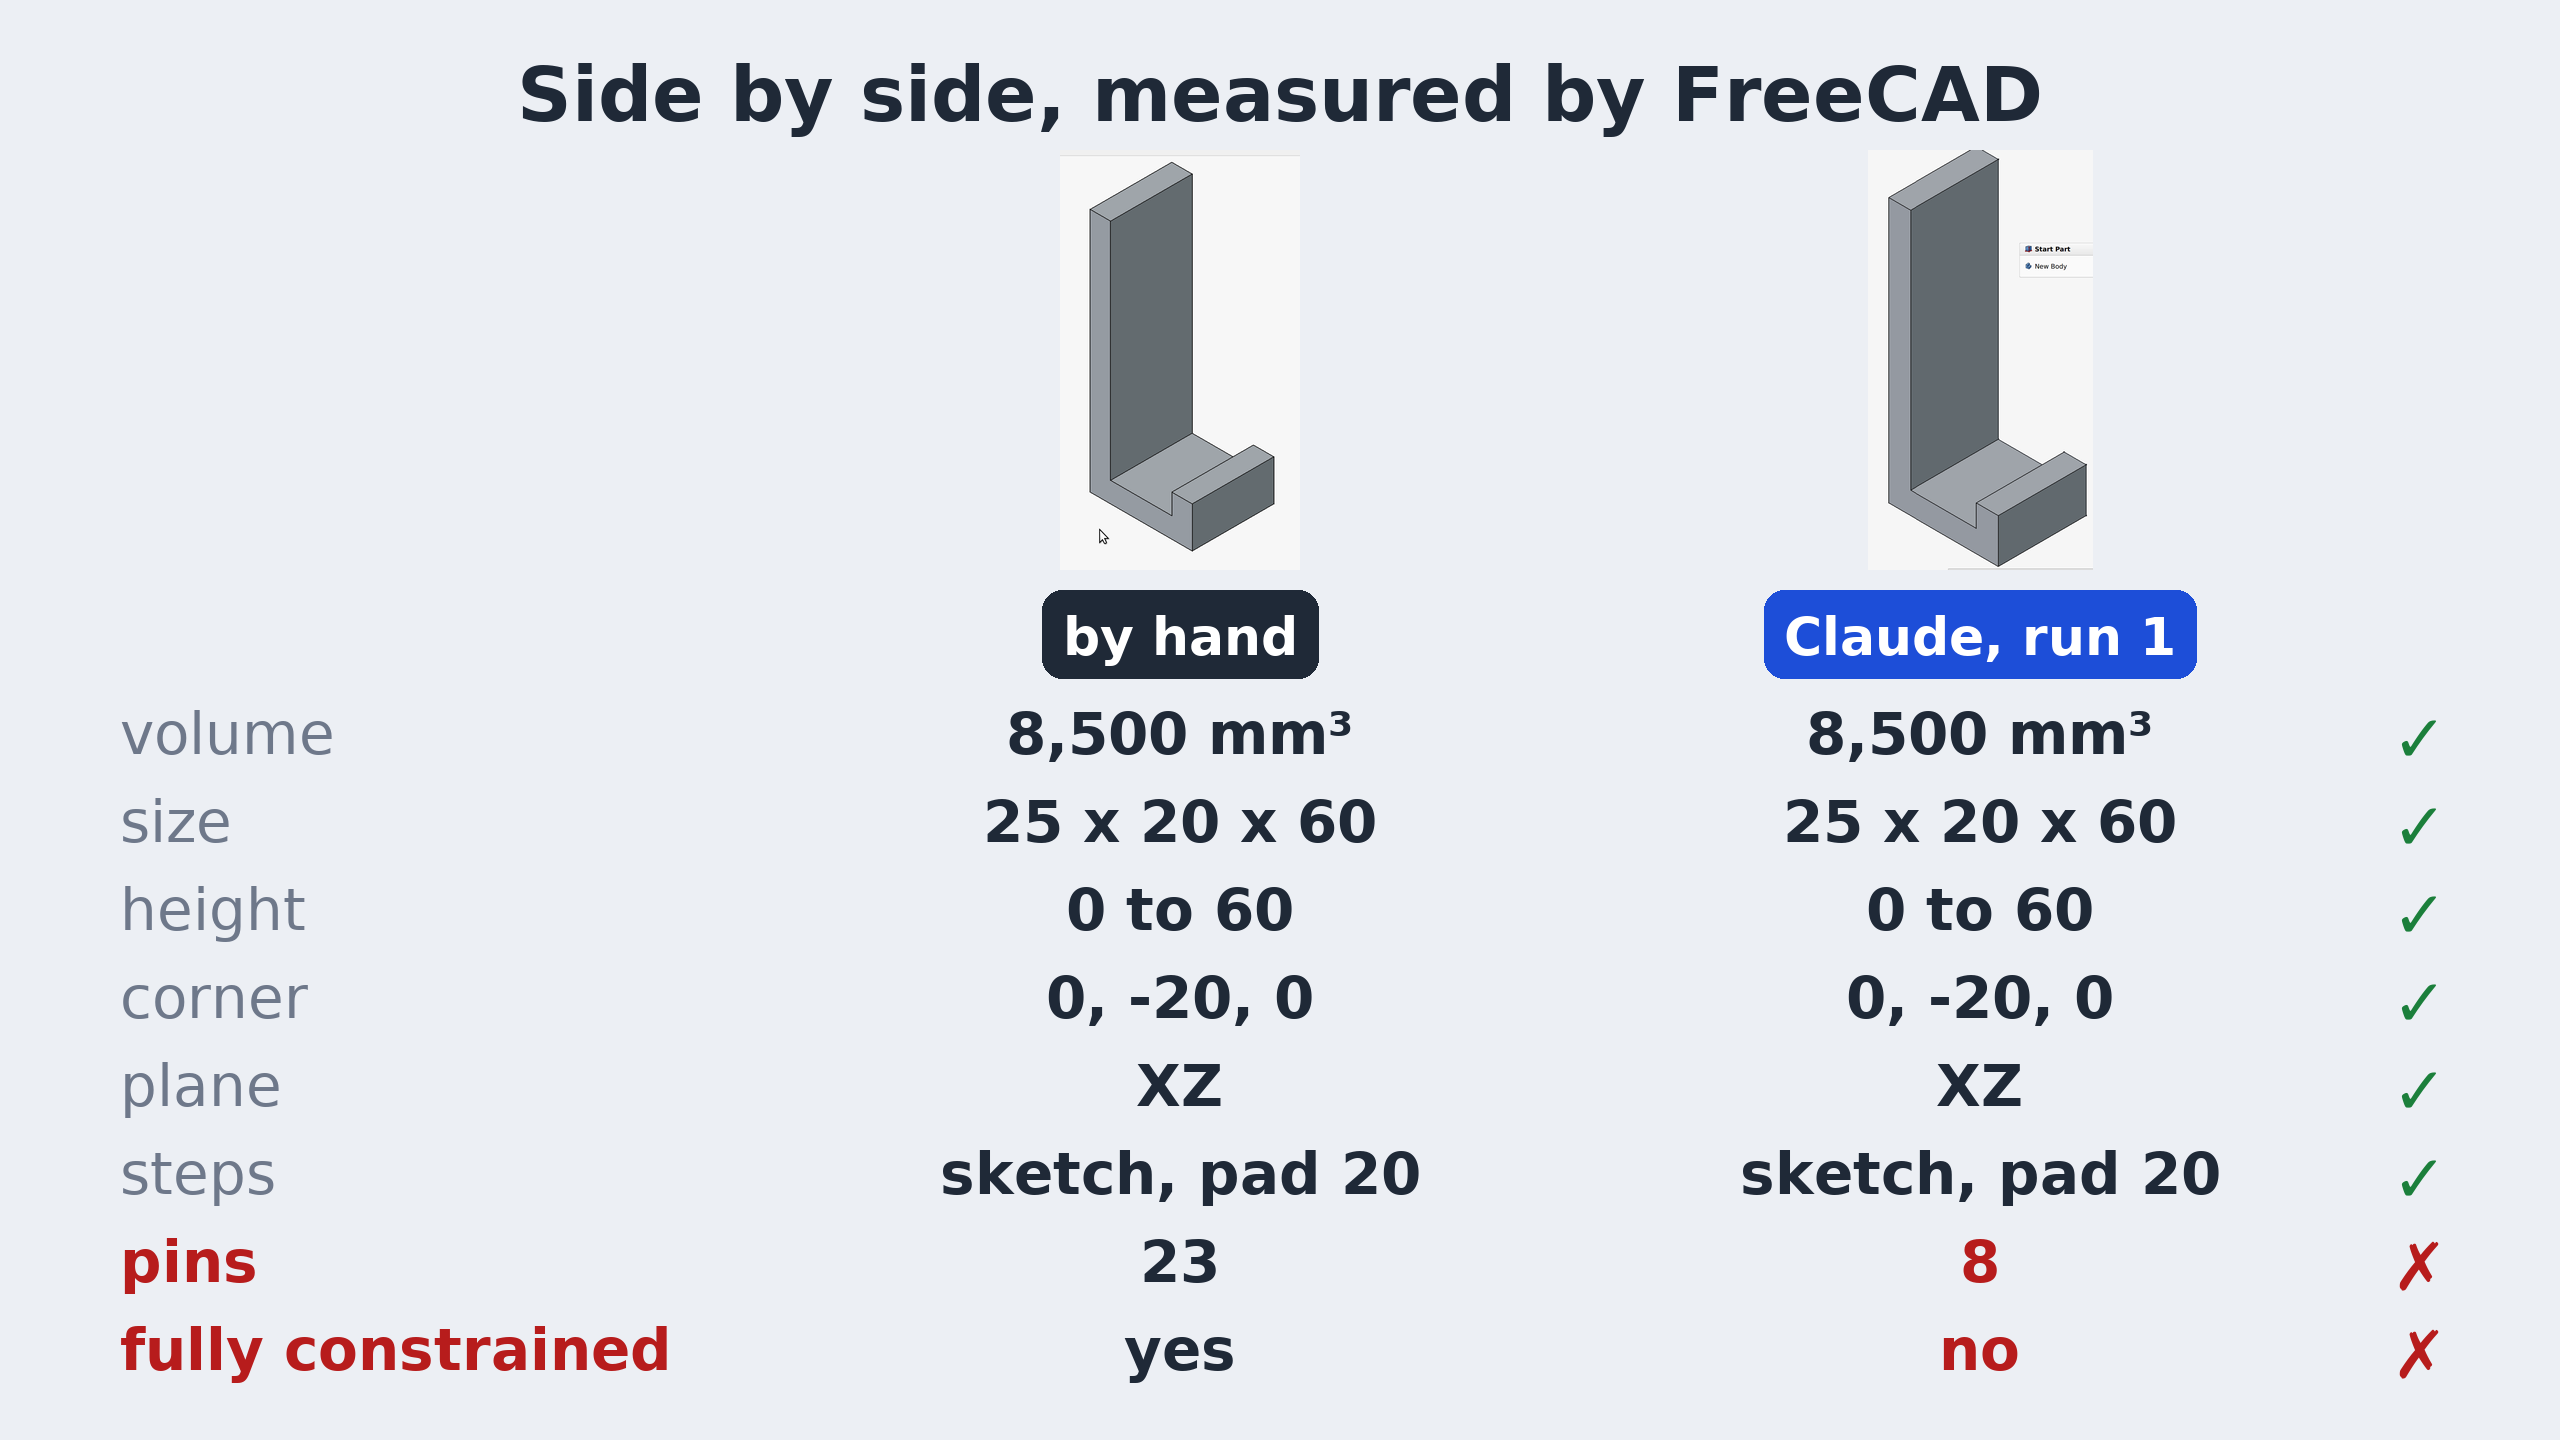
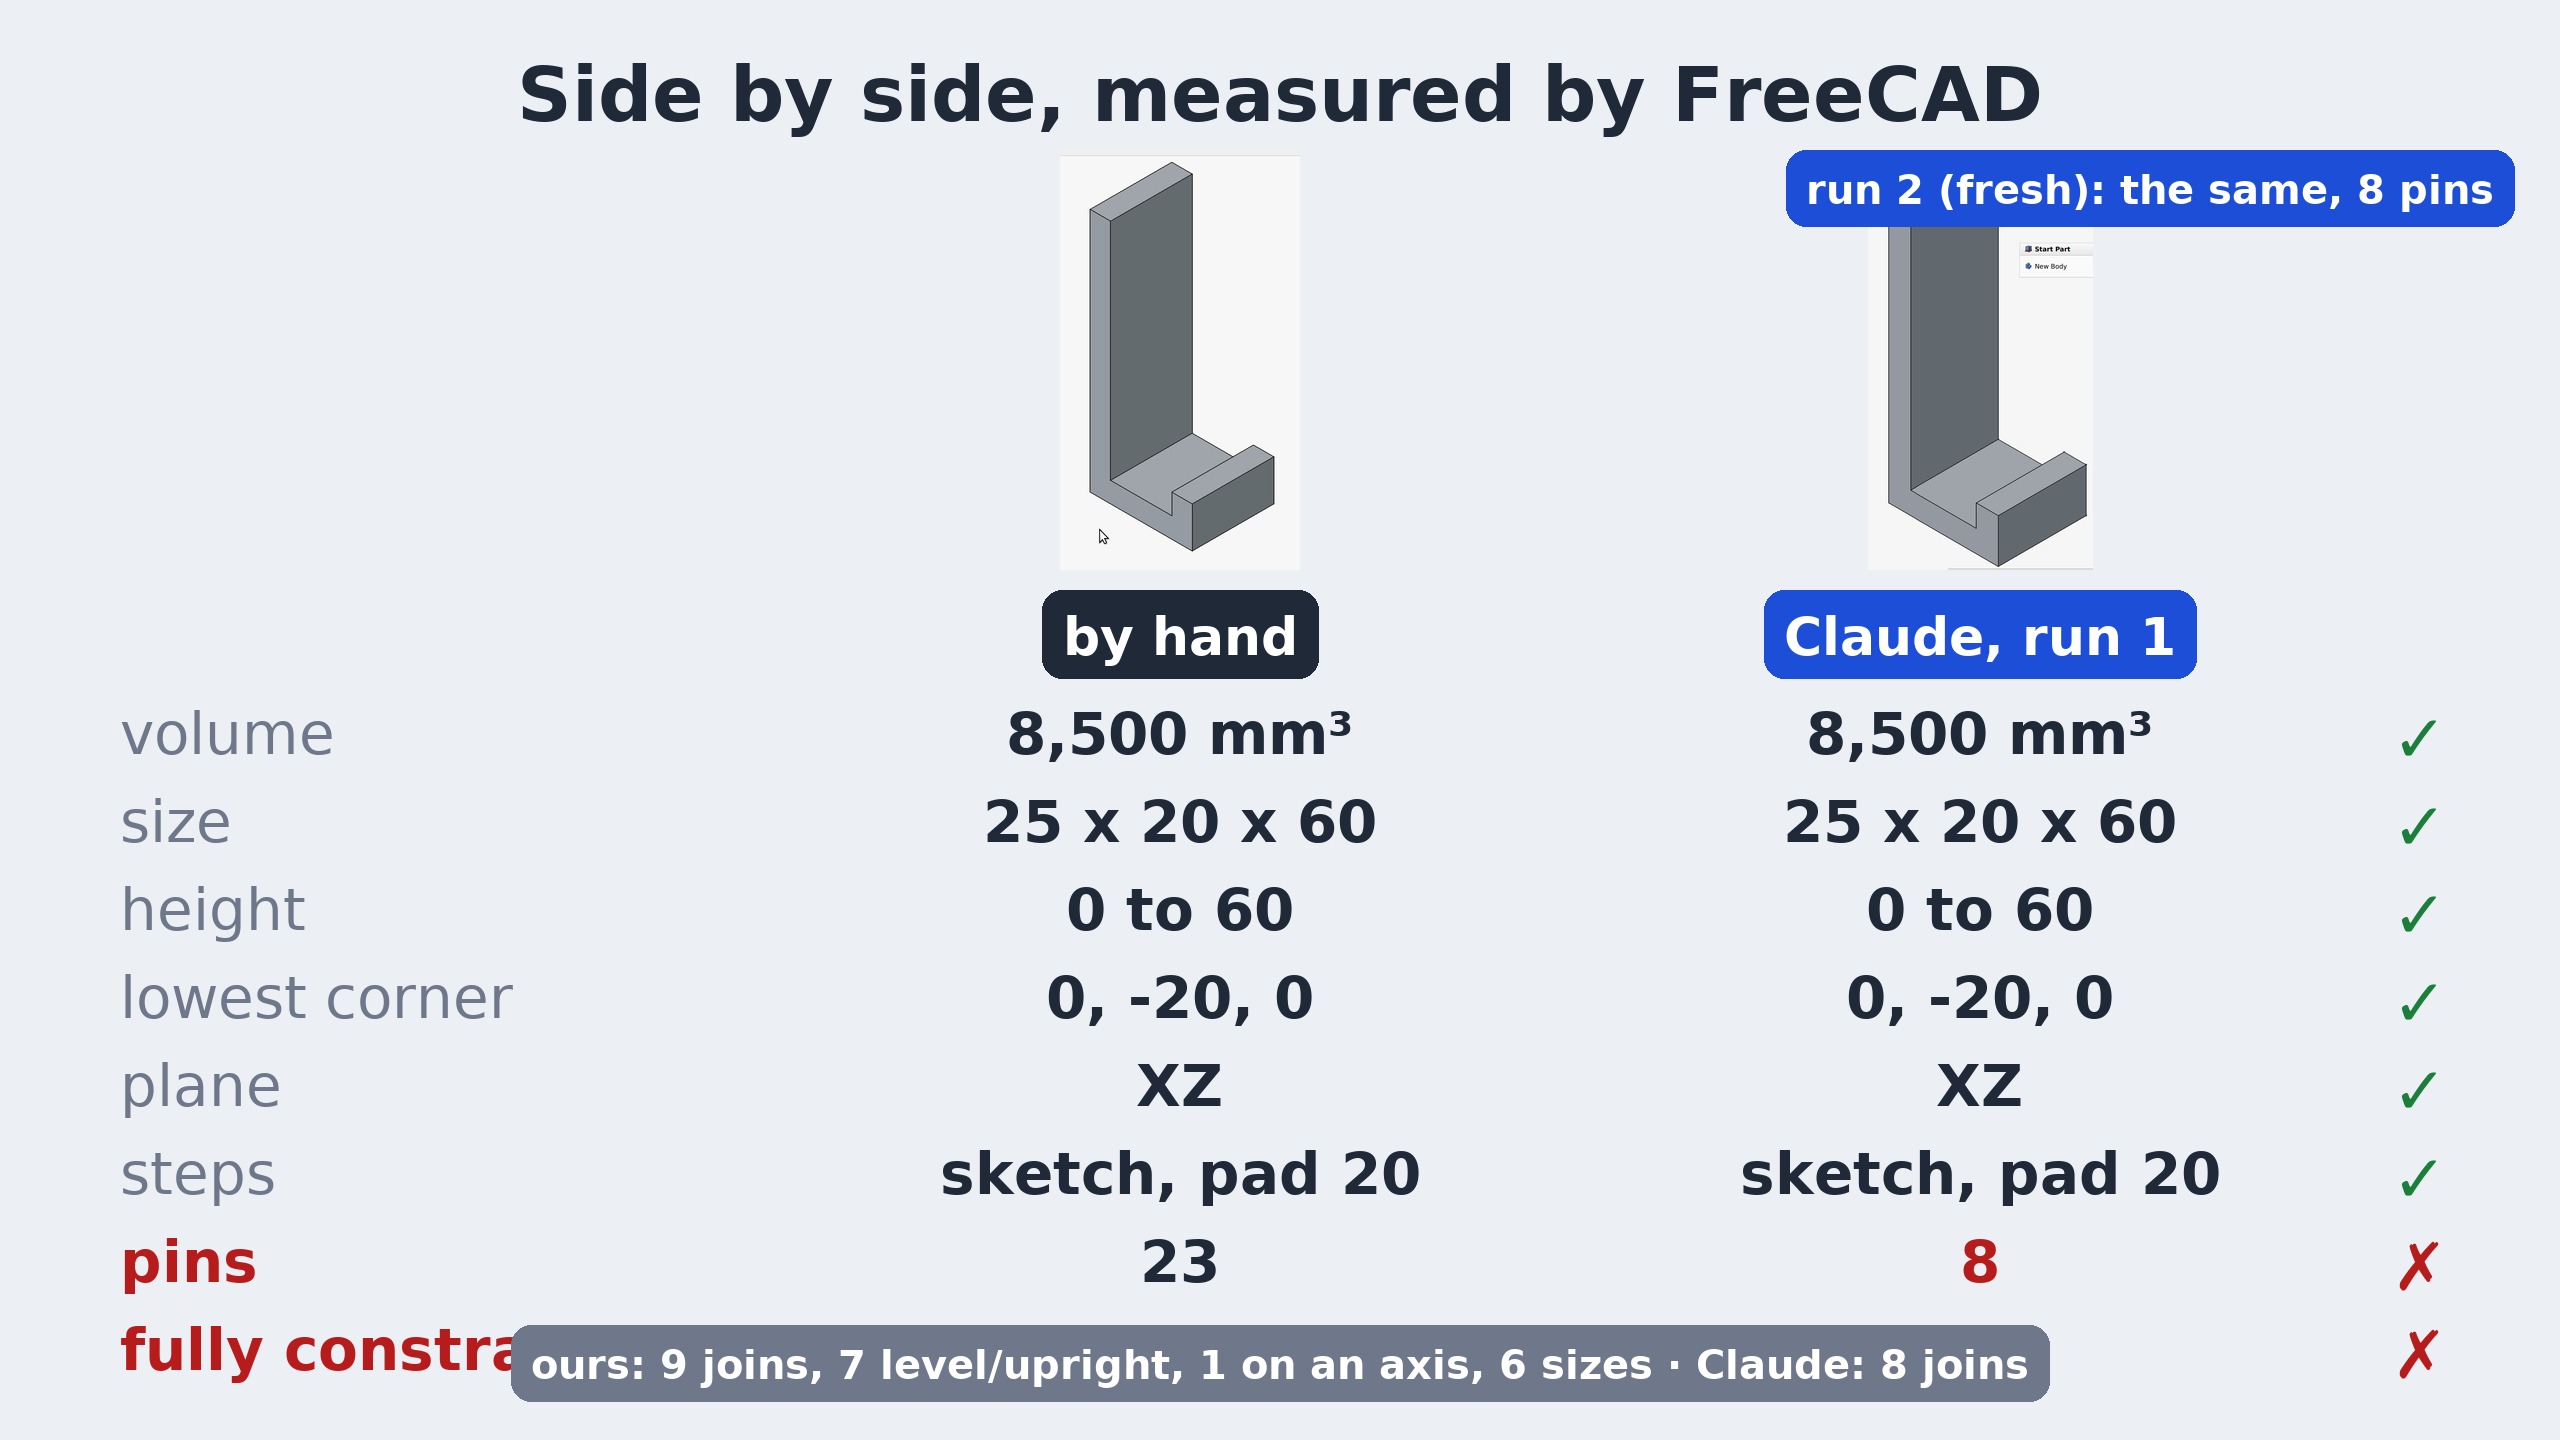
Lesson 2 cut 2 cards: tighter before/after split, pin breakdown and run 2 on the comparison, the call's code card; the SolidCraft lesson 2 clip window (events shifted, video upscaled, not committed)

Changed region(s): [[0.1875, 0.9062, 0.8125, 1.0], [0.6875, 0.0938, 1.0, 0.1562], [0.0312, 0.6875, 0.1875, 0.7188]]

diff --git a/video/hook_l2.py b/video/hook_l2.py
@@ -127,13 +127,14 @@ def split(name, a, b, la, lb, ca, cb, title):
 def cards2():
     hand_sk = os.path.join(LAB, 'out', 'l2', 'hand')
     ins = os.path.join(LAB, 'out', 'l2', 'inspect')
-    box = (1250, 250, 2250, 1650)
+    box = (1400, 250, 2150, 1100)     # cut 2: tight on the dragged corner, so before/after differ at phone size
     s4 = Image.open(os.path.join(hand_sk, 's4-stretched.png')).convert('RGB').crop(box)
     s7 = Image.open(os.path.join(hand_sk, 's7-pinned.png')).convert('RGB').crop(box)
     split('split-stretch.png', s4, s7, 'before the sizes: it stretches', 'fully constrained: it stays', RED, GREEN,
           'Ours: the same corner, dragged')
+    s4w = Image.open(os.path.join(hand_sk, 's4-stretched.png')).convert('RGB').crop((1250, 250, 2250, 1650))
     lean = Image.open(os.path.join(ins, 's3-stretched.png')).convert('RGB').crop((1300, 120, 2300, 1350))
-    split('split-lean.png', s4, lean, 'ours, no sizes yet: lines stay level', "Claude's: the plate leans over", AMBER,
+    split('split-lean.png', s4w, lean, 'ours, no sizes yet: lines stay level', "Claude's: the plate leans over", AMBER,
           RED, 'No sizes pinned: ours vs Claude\'s')
     # the cause: the two logged lines (re-typed from run 1's transcript) beside SolidCraft's hanging part
     im = Image.new('RGB', (2560, 1440), BG)
@@ -151,11 +152,26 @@ def cards2():
     dashed(d, 260 + z, 1500, 1520 + hang.width + 20)
     chip(d, (1520 + hang.width // 2, 1290), "SolidCraft's plug: top edge down", 54, RED)
     im.save(os.path.join(OUT, 'card-cause.png')); print('card-cause.png')
+    # cut 2: the only constraints in run 1's call (re-typed from transcript.jsonl seq 18)
+    im = Image.new('RGB', (2560, 1440), BG)
+    d = ImageDraw.Draw(im)
+    d.text((1280, 70), "Run 1's call: the only pins", font=font(B, 80), fill=INK, anchor='ma')
+    d.rounded_rectangle((160, 230, 2400, 1000), radius=24, fill=(24, 30, 40))
+    code = ['for i in range(n):', '    a, b = pts[i], pts[(i+1) % n]', '    sk.addGeometry(Part.LineSegment(...))',
+            'for i in range(n):', '    sk.addConstraint(Sketcher.Constraint(', '        "Coincident", i, 2, (i+1) % n, 1))',
+            'pad.Length = 20']
+    for k, ln in enumerate(code):
+        col = (255, 214, 102) if 'Coincident' in ln or 'addConstraint' in ln else (230, 237, 243)
+        d.text((220, 280 + k * 100), ln, font=font(mono, 54), fill=col)
+    chip(d, (1280, 1060), 'Coincident = two ends joined: 8 of them, nothing else', 56, RED)
+    chip(d, (1280, 1180), 'no sizes, no level or upright rules', 56, INK)
+    im.save(os.path.join(OUT, 'card-code.png')); print('card-code.png')
     # the comparison rows over the two real parts (built in 3 steps)
     rows = [('volume', '8,500 mm³', '8,500 mm³', True), ('size', '25 x 20 x 60', '25 x 20 x 60', True),
-            ('height', '0 to 60', '0 to 60', True), ('corner', '0, -20, 0', '0, -20, 0', True),
+            ('height', '0 to 60', '0 to 60', True), ('lowest corner', '0, -20, 0', '0, -20, 0', True),
             ('plane', 'XZ', 'XZ', True), ('steps', 'sketch, pad 20', 'sketch, pad 20', True),
             ('pins', '23', '8', False), ('fully constrained', 'yes', 'no', False)]
+    PIN_NOTE = 'ours: 9 joins, 7 level/upright, 1 on an axis, 6 sizes · Claude: 8 joins'
     hand = fit(Image.open(os.path.join(LAB, 'out', 'l2', 'hand', 's10-iso.png')).convert('RGB').crop((1400, 250, 2000, 1300)), 420, 420)
     cl = fit(src('run1-part.png', (1880, 240, 2510, 1412)), 420, 420)
     for n, upto in ((1, 3), (2, 6), (3, 8)):
@@ -171,6 +187,9 @@ def cards2():
             d.text((1180, y), a, font=font(B, 58), fill=INK, anchor='ma')
             d.text((1980, y), b, font=font(B, 58), fill=col, anchor='ma')
             d.text((2420, y), '✓' if ok else '✗', font=font(B, 66), fill=GREEN if ok else RED, anchor='ma')
+        if n == 3:
+            chip(d, (1280, 1405 - 80), PIN_NOTE, 40, GREY)
+            chip(d, (2150, 150), 'run 2 (fresh): the same, 8 pins', 40, BLUE)
         im.save(os.path.join(OUT, f'card-compare-{n}.png')); print(f'card-compare-{n}.png')
 
 

diff --git a/video/draw_l2.py b/video/draw_l2.py
@@ -87,6 +87,7 @@ def card_paper():
     d.line(p + [p[0]], fill=INK, width=12, joint='curve')
     d.polygon([(1690, 330), (1830, 190), (1870, 230), (1730, 370)], fill=AMBER)
     d.polygon([(1690, 330), (1730, 370), (1670, 390)], fill=INK)
+    save(im, 'card-paper-1.png')
     d.line((1980, 700, 1980, 300), fill=GREEN, width=14)
     d.polygon([(1950, 300), (2010, 300), (1980, 250)], fill=GREEN)
     text(d, (2020, 280), 'top edge', 64, GREEN, anchor='lm')
@@ -132,7 +133,7 @@ def card_joutline_steps():
         text(d, (ox + 5 * s + 40, oy - 42 * s), 'back plate: 5 thick', 64, BLUE, anchor='lm')
         if step >= 2:
             d.line((ox, oy + 40, ox + 25 * s, oy + 40), fill=BLUE, width=8)
-            text(d, (ox + 25 * s + 70, oy + 40), 'arm: 25 deep, 5 thick', 64, BLUE, anchor='lm')
+            text(d, (ox + 25 * s + 70, oy + 20), 'arm: 25 deep, 5 thick', 64, BLUE, anchor='lm')
         if step >= 3:
             d.line((ox + 25 * s + 40, oy, ox + 25 * s + 40, oy - 10 * s), fill=BLUE, width=8)
             text(d, (ox + 25 * s + 70, oy - 5 * s - 40), 'lip: 10 high', 64, BLUE, anchor='lm')
